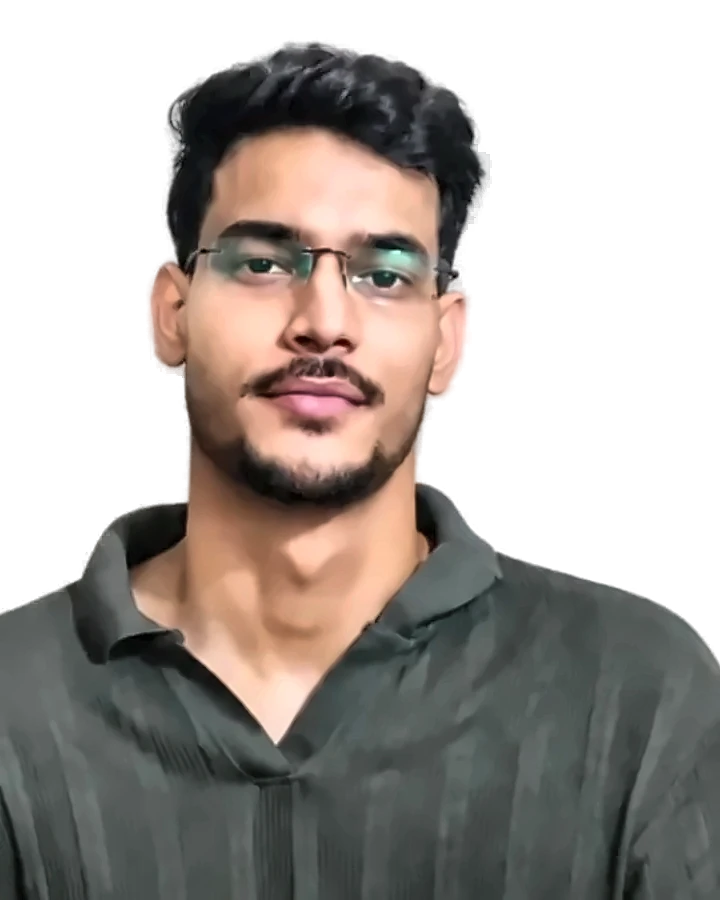
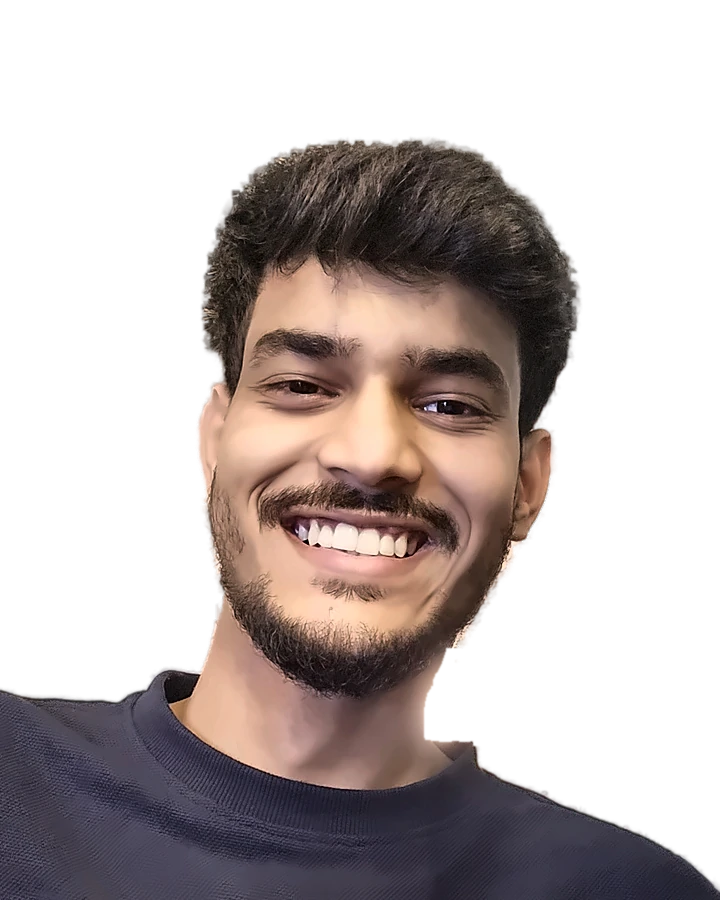
ID card: new portrait (café photo), background removed, cropped above the cup
Cut out at full resolution with the orientation fixed, a background
lamp removed beside the neck, light denoise and sharpening; anchored to
the bottom of the photo frame so the head and shoulders fit.

Claude-Session: https://claude.ai/code/session_015vB7sMagi9sdtfN8XyE67b

diff --git a/portfolio/assets/css/style.css b/portfolio/assets/css/style.css
@@ -526,7 +526,7 @@ section { scroll-margin-top: 84px; }
   background: radial-gradient(circle at 50% 30%, color-mix(in srgb, #fff 45%, var(--accent-2)) 0%, var(--accent-2) 30%, var(--accent) 62%, #2c2899 100%);
   box-shadow: inset 0 0 0 1px rgba(255, 255, 255, 0.25);
 }
-.id-photo img { position: absolute; left: 0; top: 4%; width: 100%; height: auto; filter: drop-shadow(0 6px 10px rgba(20, 16, 70, 0.35)); }
+.id-photo img { position: absolute; left: 8%; bottom: 0; width: 84%; height: auto; filter: drop-shadow(0 6px 10px rgba(20, 16, 70, 0.35)); }
 .id-name { margin-top: 1.5cqw; font-size: 8.6cqw; font-weight: 600; line-height: 1.05; letter-spacing: -0.03em; color: var(--fg); }
 .id-role { font-size: 5cqw; font-weight: 500; color: var(--accent); }
 .id-meta { margin: 1cqw 0 0; padding-top: 3cqw; border-top: 1px dashed var(--line-strong); display: grid; grid-template-columns: 1fr 1fr; gap: 2cqw; }
